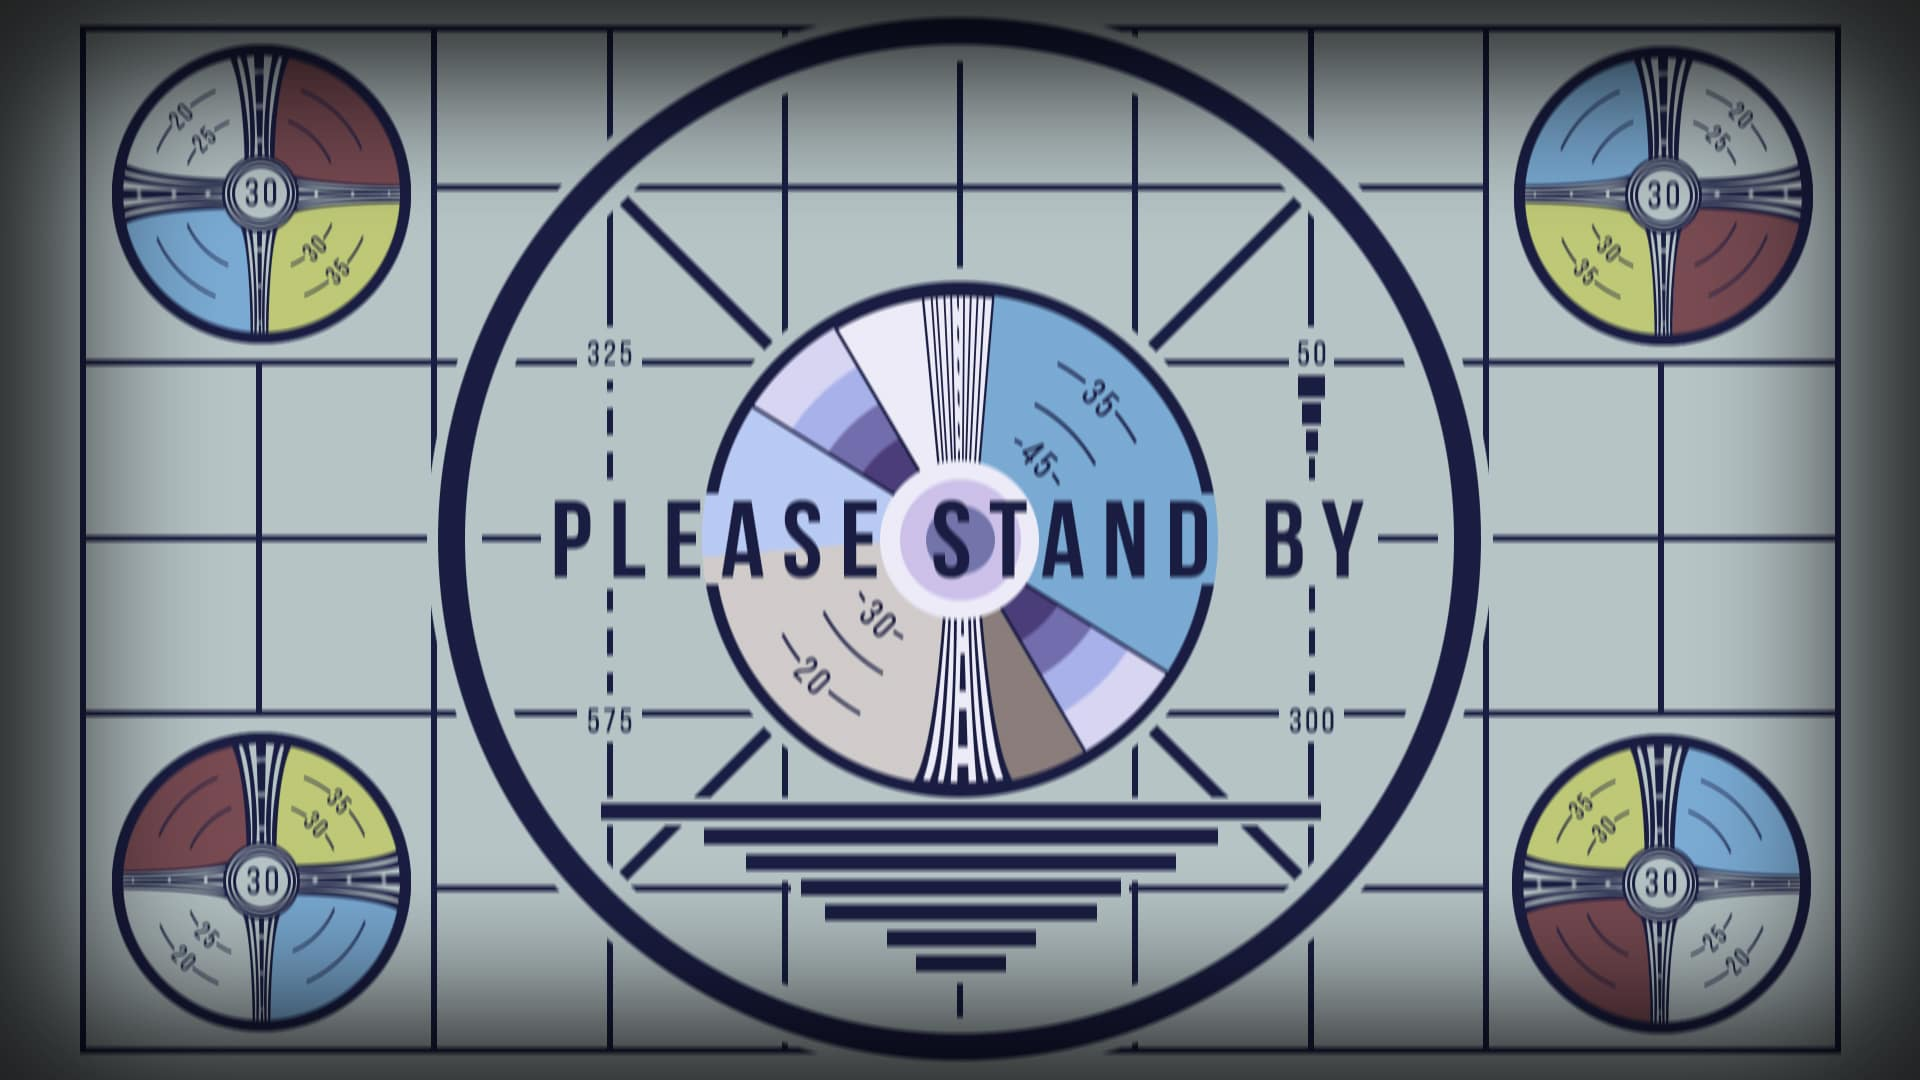
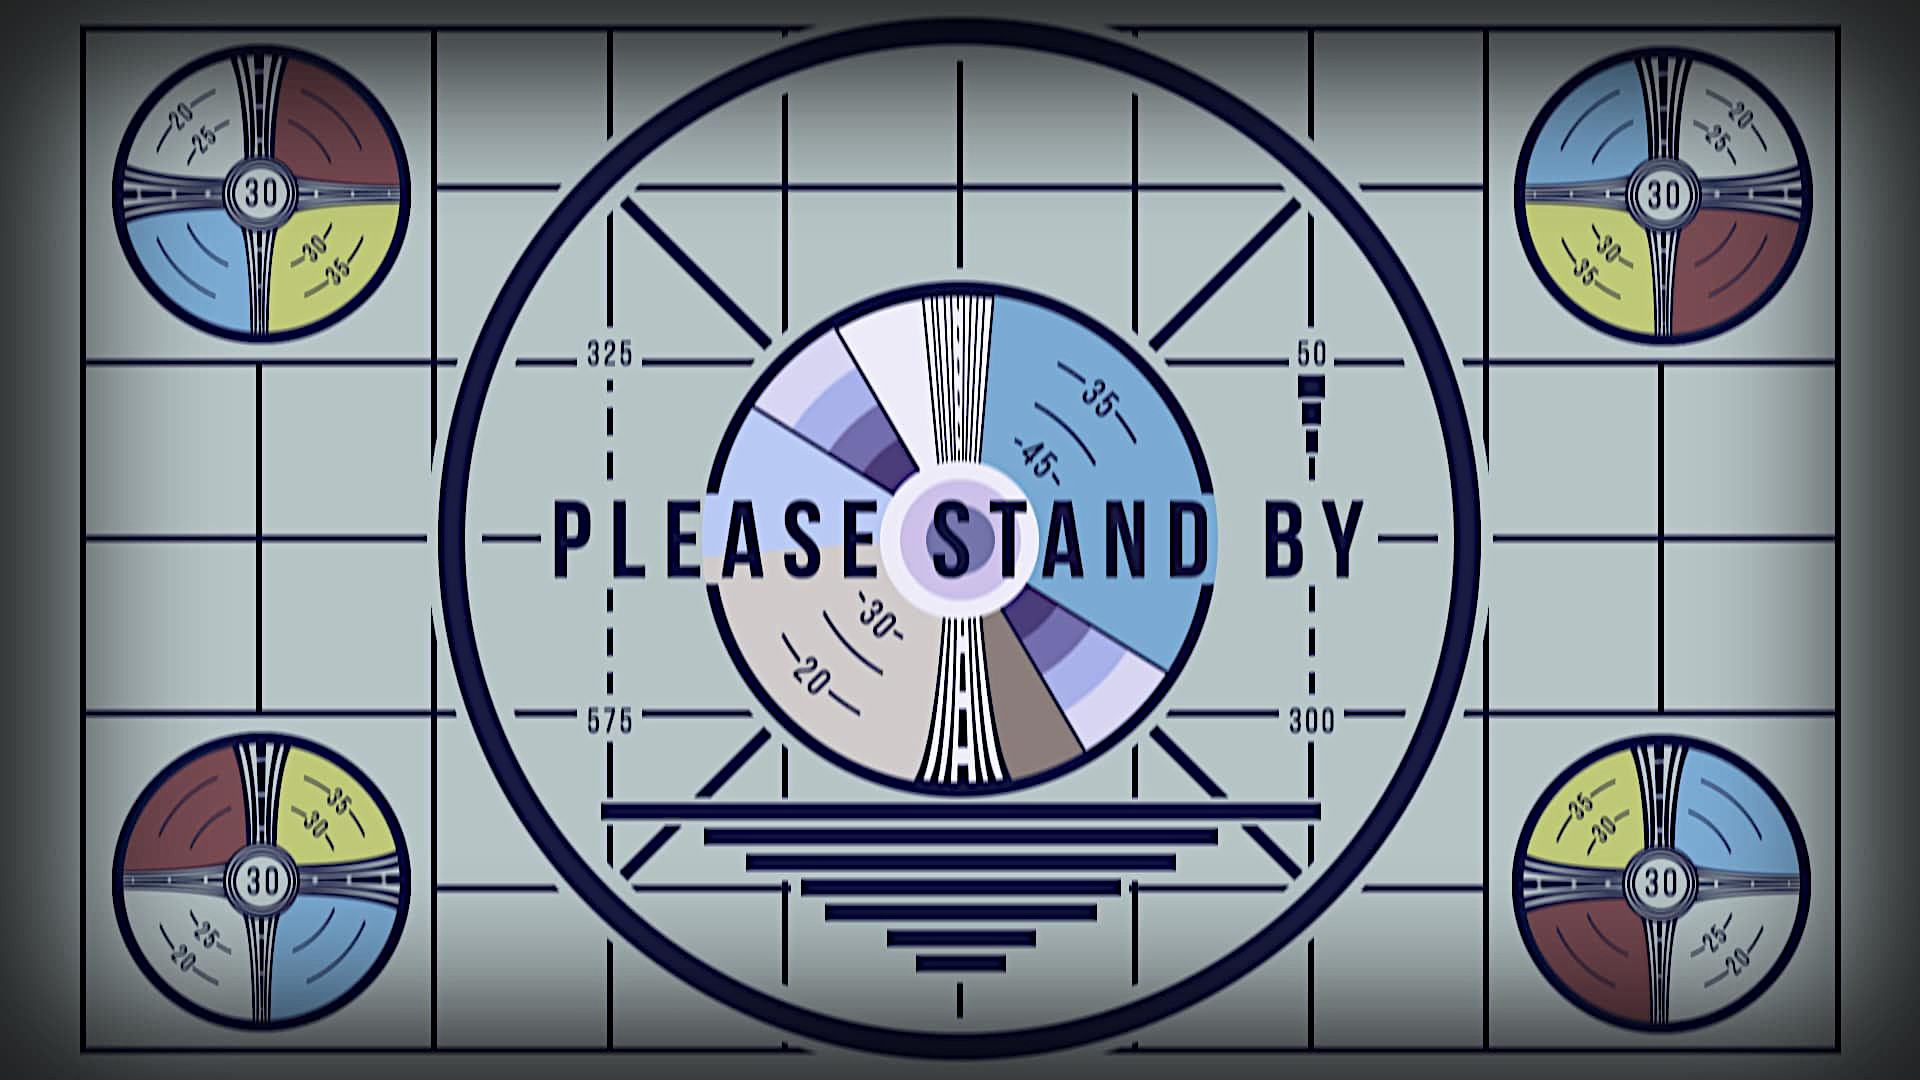
Fix image.

diff --git a/main/static/js/annotator/live-video.js b/main/static/js/annotator/live-video.js
@@ -6,7 +6,7 @@ class LiveCanvas extends AnnotationCanvas
   {
     super();
     this._poster = document.createElement("img");
-    this._poster.setAttribute("src", "/static/images/tator-logo.png");
+    this._poster.setAttribute("src", "/static/images/please_stand_by.jpg");
     this._dims = [1920,1080]; // default size
     this._draw.resizeViewport(1920,1080);
     this.resetRoi();
@@ -142,14 +142,14 @@ class LiveCanvas extends AnnotationCanvas
         }
         else
         {
-          let x = (cWidth/2) - (this._poster.width/4);
-          let y = (cHeight/2) - (this._poster.height/4);
+          let x = 0;//(cWidth/2) - (this._poster.width/4);
+          let y = 0;//(cHeight/2) - (this._poster.height/4);
           this._draw.pushImage(0,
                               this._poster,
-                              this._roi[0],this._roi[1], //No clipping
-                              this._roi[2],this._roi[3], //Image size
-                              x,0-y, //Place 'centered'
-                              this._poster.width/2,this._poster.height/2, // Use canvas size
+                              0,0, //No clipping
+                              1,1, 
+                              x,0-y, 
+                              sWidth,sHeight, // Use canvas size
                               this._dirty
                               );
         }
